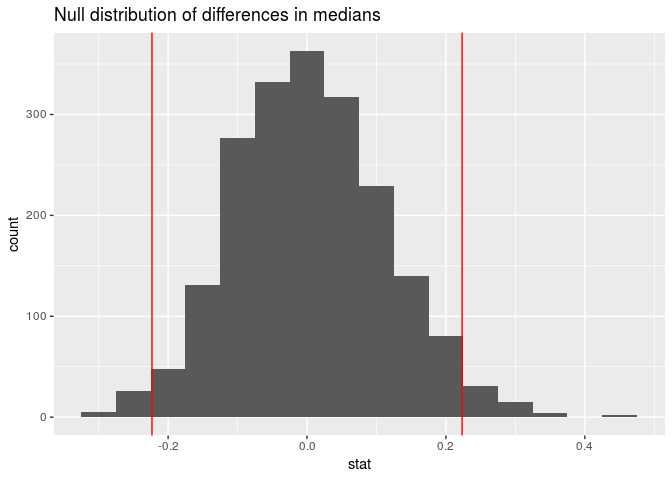
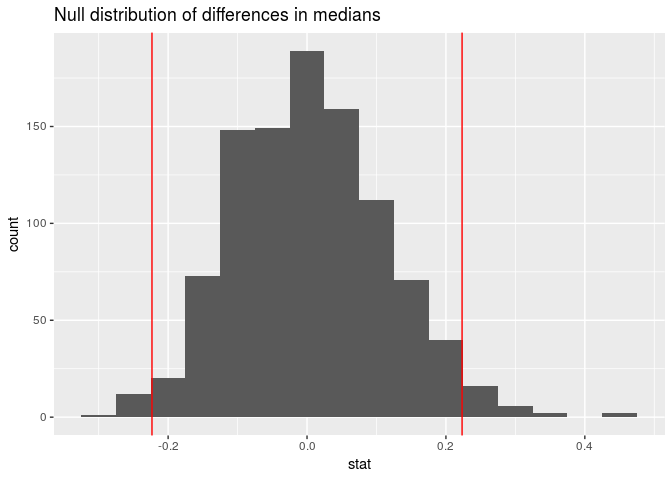
fixed narrative and code issues

diff --git a/project/project.md b/project/project.md
@@ -323,21 +323,22 @@ movies.
     ## # A tibble: 1 x 1
     ##   pvalue
     ##    <dbl>
-    ## 1  0.108
+    ## 1  0.052
 
     ## # A tibble: 1 x 2
     ##    lower upper
     ##    <dbl> <dbl>
-    ## 1 -0.202 0.225
+    ## 1 -0.185 0.227
 
-From our hypothesis test, we found a p-value of .108 – above our alpha
-level of .05. Thus, we do not have convincing evidence to reject a null
-hypothesis of no difference in pratios. We’ve also computed a 95%
-confidence interval for the true median difference between action and
-non-action movies in that order, arriving at values of –.202 and .225.
-Consequently, we can state with 95% confidence that the true typical
-difference in median pratios for action and non-action movies lies
-between -.202 and .225.
+From our hypothesis test, we found a p-value of .046 – below our alpha
+level of .05. Thus, we do have convincing evidence to reject a null
+hypothesis of no difference in pratios, thus concluding that there is
+evidence of a difference in median pratios between action movies and non
+action movies. We’ve also computed a 95% confidence interval for the
+true median difference between action and non-action movies in that
+order, arriving at values of -0.188 and .215. Consequently, we can state
+with 95% confidence that the true typical difference in median pratios
+for action and non-action movies lies between -.188 and .215.
 
 In a similar process, we examined the profitability and frequency of
 action movies over time.
